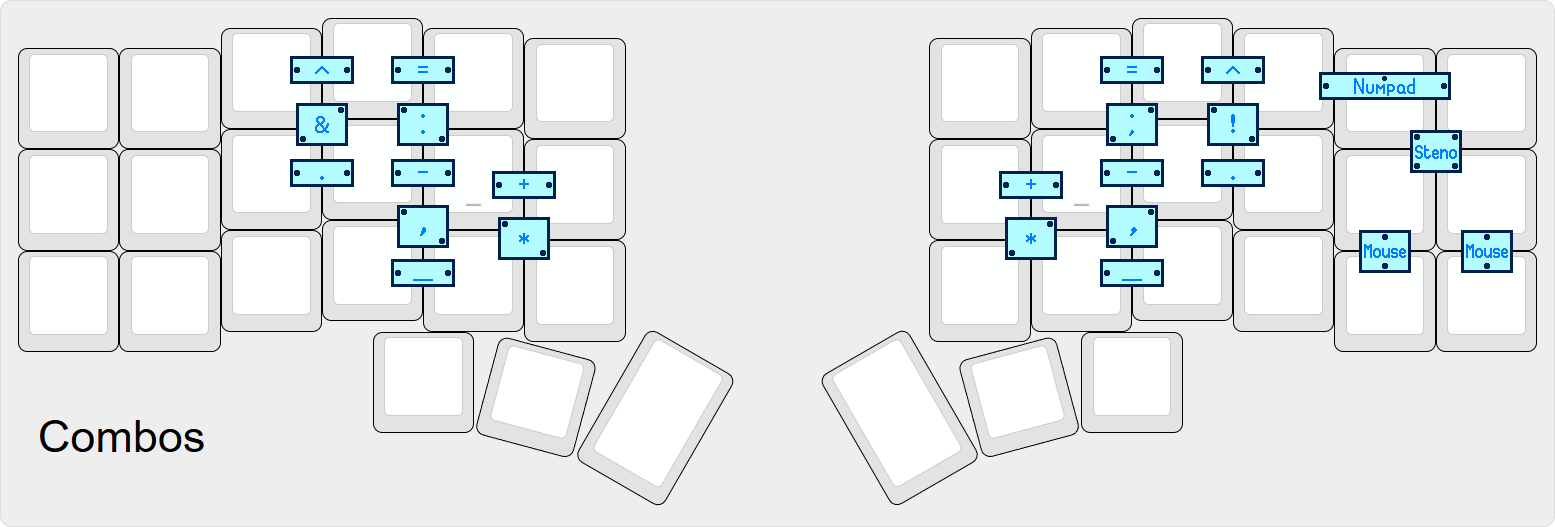
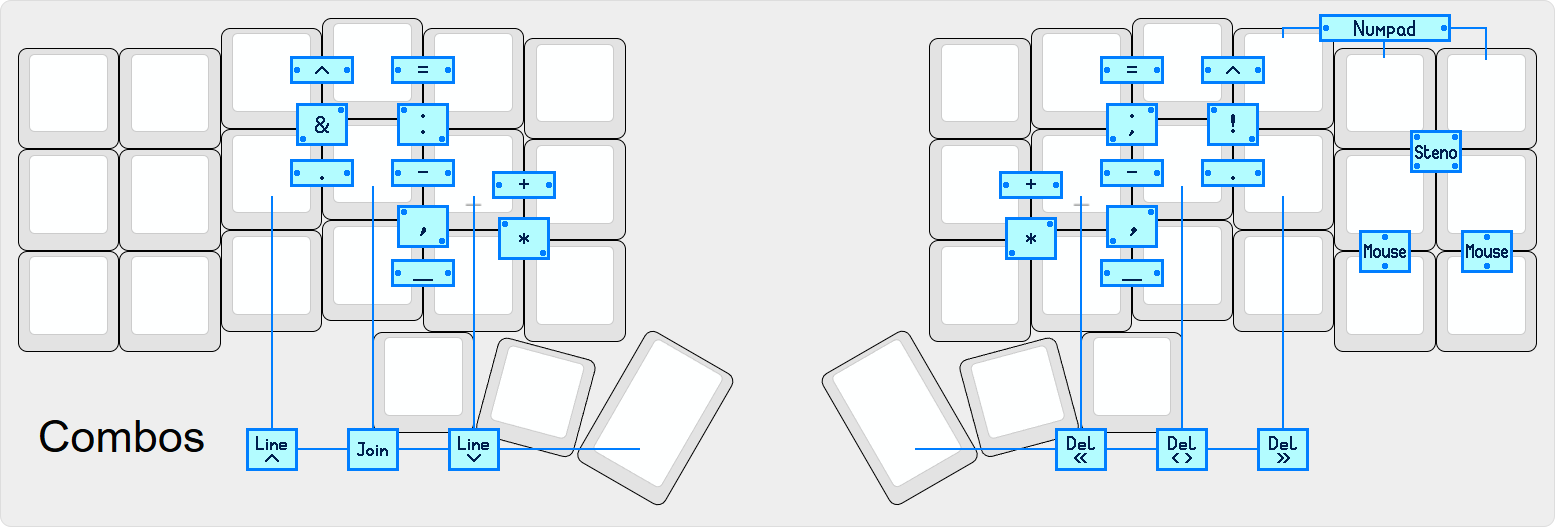
Combos
Added new combos with space/backspace for smoother editing.

diff --git a/keymap.c b/keymap.c
@@ -105,6 +105,14 @@ enum custom_keycodes {
 
     CM_SCLN,
     CM_EXLM,
+
+    CM_SPC_1,
+    CM_SPC_2,
+    CM_SPC_3,
+
+    CM_BSPC_1,
+    CM_BSPC_2,
+    CM_BSPC_3,
 };
 
 
@@ -578,7 +586,7 @@ uint16_t get_tapping_term(uint16_t keycode, keyrecord_t *record) {
         
         case MTA_R:
         case MTA_I:
-            return 300;
+            return 250;
 
         default:
             return TAPPING_TERM;
@@ -659,7 +667,7 @@ uint16_t achordion_timeout(uint16_t tap_hold_keycode) {
             return 0;
 
         default:
-            return 800;
+            return 300;
     }
 }
 
@@ -699,7 +707,7 @@ uint16_t achordion_streak_chord_timeout(
     if (((mod & MOD_LSFT) != 0) || ((mod & MOD_RSFT) != 0)) {
         return 150;
     }
-    return 250;
+    return 200;
 }
 
 bool achordion_eager_mod(uint8_t mod) {
@@ -784,6 +792,14 @@ enum combo_events {
     SEMICOLON,
     AMPERSAND,
 
+    SPC_1,
+    SPC_2,
+    SPC_3,
+
+    BSPC_1,
+    BSPC_2,
+    BSPC_3,
+
     COMBO_LENGTH
 };
 uint16_t COMBO_LEN = COMBO_LENGTH;
@@ -818,6 +834,14 @@ const uint16_t PROGMEM r_minus[]        = {MT_J, MT_K, COMBO_END};
 const uint16_t PROGMEM semicolon[]      = {MT_J, KC_I, COMBO_END};
 const uint16_t PROGMEM exclamation[]    = {KC_I, MT_L, COMBO_END};
 
+const uint16_t PROGMEM spc_1[]          = {CS_LT1, MT_F, COMBO_END};
+const uint16_t PROGMEM spc_2[]          = {CS_LT1, MT_D, COMBO_END};
+const uint16_t PROGMEM spc_3[]          = {CS_LT1, MT_S, COMBO_END};
+
+const uint16_t PROGMEM bspc_1[]         = {CS_RT1, MT_J, COMBO_END};
+const uint16_t PROGMEM bspc_2[]         = {CS_RT1, MT_K, COMBO_END};
+const uint16_t PROGMEM bspc_3[]         = {CS_RT1, MT_L, COMBO_END};
+
 combo_t key_combos[] = {
     [TOUHOU]        = COMBO_ACTION(touhou),
     [STENO]         = COMBO_ACTION(steno),
@@ -850,6 +874,12 @@ combo_t key_combos[] = {
     [SEMICOLON]     = COMBO(semicolon,     CM_SCLN),
     [EXCLAMATION]   = COMBO(exclamation,   CM_EXLM),
 
+    [SPC_1]         = COMBO(spc_1,         CM_SPC_1),
+    [SPC_2]         = COMBO(spc_2,         CM_SPC_2),
+    [SPC_3]         = COMBO(spc_3,         CM_SPC_3),
+    [BSPC_1]        = COMBO(bspc_1,        CM_BSPC_1),
+    [BSPC_2]        = COMBO(bspc_2,        CM_BSPC_2),
+    [BSPC_3]        = COMBO(bspc_3,        CM_BSPC_3),
 
 };
 
@@ -892,13 +922,24 @@ uint16_t get_combo_term(uint16_t index, combo_t *combo) {
     switch (index) {
         case L_UNDERSCORE:
         case R_UNDERSCORE:
+        
+        case SPC_1:
+        case SPC_2:
+        case SPC_3:
+
+        case BSPC_1:
+        case BSPC_2:
+        case BSPC_3:
             return 30;
+
         case L_EXPONENT:
         case R_EXPONENT:
             return 15;
+
         case MOUSE:
         case MOUSE2:
             return 75;
+
         default:
             return 25;
     }
@@ -939,6 +980,18 @@ bool combo_should_trigger(uint16_t combo_index, combo_t *combo, uint16_t keycode
 
 uint16_t last_key = KC_NO;
 uint16_t last_key_2 = KC_NO;
+
+void update_last_key(uint16_t new_keycode) {
+    if (new_keycode != last_key) {
+        last_key_2 = last_key;
+        last_key = new_keycode;
+    }
+}
+
+void update_last_keys(uint16_t new_keycode_2, uint16_t new_keycode) {
+        last_key_2 = new_keycode_2;
+        last_key = new_keycode;
+}
 
 bool process_cs_repeat(uint16_t keycode, keyrecord_t* record) {
     if ((keycode == CS_RT1) || (keycode == KC_BSPC)) {
@@ -1029,13 +1082,6 @@ bool process_cs_repeat(uint16_t keycode, keyrecord_t* record) {
     return true;
 }
 
-
-void update_last_key(uint16_t new_keycode) {
-    if (new_keycode != last_key) {
-        last_key_2 = last_key;
-        last_key = new_keycode;
-    }
-}
 
 //==============================================================================
 // Select word
@@ -1497,12 +1543,12 @@ bool process_record_user(uint16_t keycode, keyrecord_t* record) {
             }
             break;
 
-        case CS_LCTL:
-            if (record->event.pressed) {
-                add_oneshot_mods(MOD_BIT(KC_LCTL));
-            }
-            return true;
-            break;
+        // case CS_LCTL:
+        //     if (record->event.pressed) {
+        //         add_oneshot_mods(MOD_BIT(KC_LCTL));
+        //     }
+        //     return true;
+        //     break;
 
         // =====================================================================
         // Custom symbol handling
@@ -2041,6 +2087,68 @@ bool process_record_user(uint16_t keycode, keyrecord_t* record) {
                 const uint8_t mods = get_mods();
                 del_mods(MOD_MASK_SHIFT);
                 tap_code16(KC_EXLM);
+                set_mods(mods);
+            }
+            break;
+
+            
+        case CM_SPC_3:
+            if (record->event.pressed) {
+                const uint8_t mods = get_mods();
+                del_mods(MOD_MASK_CSAG);
+                tap_code(KC_HOME);
+                tap_code(KC_ENT);
+                tap_code(KC_UP);
+                set_mods(mods);
+            }
+            break;
+        case CM_SPC_2:
+            if (record->event.pressed) {
+                const uint8_t mods = get_mods();
+                del_mods(MOD_MASK_CSAG);
+                tap_code(KC_END);
+                add_mods(MOD_MASK_CTRL);
+                tap_code(KC_DEL);
+                del_mods(MOD_MASK_CTRL);
+                tap_code(KC_SPC);
+                set_mods(mods);
+            }
+            break;
+        case CM_SPC_1:
+            if (record->event.pressed) {
+                const uint8_t mods = get_mods();
+                del_mods(MOD_MASK_CSAG);
+                tap_code(KC_END);
+                tap_code(KC_ENT);
+                set_mods(mods);
+            }
+            break;
+            
+        case CM_BSPC_1:
+            if (record->event.pressed) {
+                const uint8_t mods = get_mods();
+                del_mods(MOD_MASK_CSAG);
+                add_mods(MOD_MASK_CTRL);
+                tap_code(KC_BSPC);
+                set_mods(mods);
+            }
+            break;
+        case CM_BSPC_2:
+            if (record->event.pressed) {
+                const uint8_t mods = get_mods();
+                del_mods(MOD_MASK_CSAG);
+                add_mods(MOD_MASK_CTRL);
+                tap_code(KC_LEFT);
+                tap_code(KC_DEL);
+                set_mods(mods);
+            }
+            break;
+        case CM_BSPC_3:
+            if (record->event.pressed) {
+                const uint8_t mods = get_mods();
+                del_mods(MOD_MASK_CSAG);
+                add_mods(MOD_MASK_CTRL);
+                tap_code(KC_DEL);
                 set_mods(mods);
             }
             break;

diff --git a/readme.md b/readme.md
@@ -76,12 +76,6 @@ Alpha keys pressed while the control modifier is active are not tracked:
 
 > `a [CTRL] b [Release CTRL] [Magic]` produces `a ^b a`.
 
-Repeat/magic key outputs are also not tracked:
-
-> `e [Rep] [Magic]` produces `e o e` (`Rep` ignores `Magic` output and returns `e`, not `o`);
-> 
-> `t [Magic] [Rep]` produces `t i o n t` (`Magic` ignores `Magic` output and returns `t`, not `n`).
-
 `Backspace` reverts the tracked key to the previous distinct key:
 
 > `a b c [Rep]` produces `a b c c` (`Rep` returns `c`);
@@ -115,7 +109,10 @@ Key on utility layer available to change both OLEDs to static images.
 
 (Press `Esc`, `;`, and `#` to access Touhou layer and to see funky Cirno fumo on right OLED.)
 
-
+---
+- `Line` combos add empty lines above/below current position;
+- `Join` combo joins current line to following line with space between;
+- `Del` combos delete leftwards, current word, and rightwards.
 
 # Layers
 ### Base
